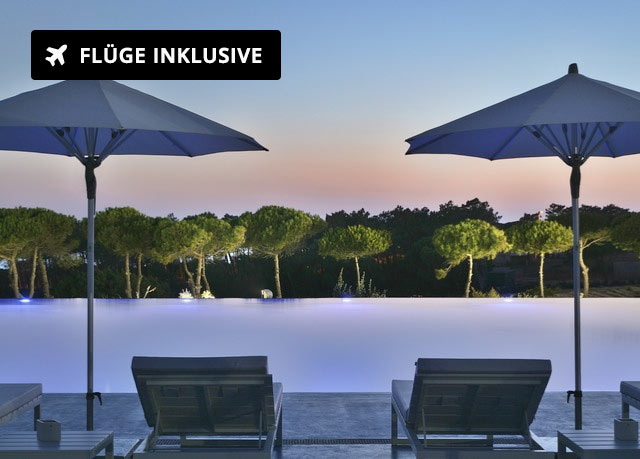
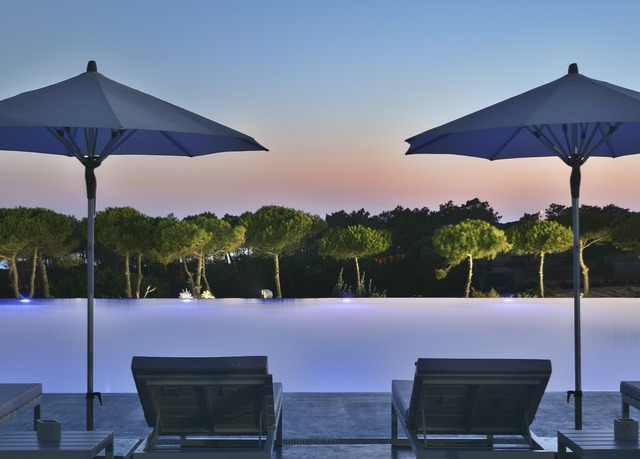
new optional offer flight tag

Changed region(s): [[0.0312, 0.061, 0.4375, 0.183]]

diff --git a/_includes/offer/offer.html b/_includes/offer/offer.html
@@ -2,7 +2,11 @@
 
   <a class="offer__link" href="{{offer.link}}"><span class="btn btn--orange">Zum Angebot</span></a>
 
-  <div class="bg-img bg-img--3-2" style="background-image: url('{{site.img}}/offers/{{offer.id}}.jpg')"></div>
+  <div class="bg-img bg-img--3-2" style="background-image: url('{{site.img}}/offers/{{offer.id}}.jpg')">
+    {% if offer.flight-tag %}
+      <img class="flight-tag" src="{{site.img}}/icons/flights-incl.png" alt="FLÜGE INKLUSIVE">
+    {% endif %}
+  </div>
 
   <div class="offer__content">
 

diff --git a/_assets/sass/_styles.scss b/_assets/sass/_styles.scss
@@ -596,3 +596,18 @@ img.hover-shadow {
   .pt-mob-hide{display: none;}
 .pt-hidden{ display: block;}
 }
+
+
+/*************** offer tag for included tag *******************/
+.flight-tag {
+  position: absolute;
+  top: $s-2;
+  left: $s-2;
+  display: block;
+  width: 50%;
+  @include bp($sm){
+    top: $s0;
+    left: $s0;
+    width: 146px;
+  }
+}
